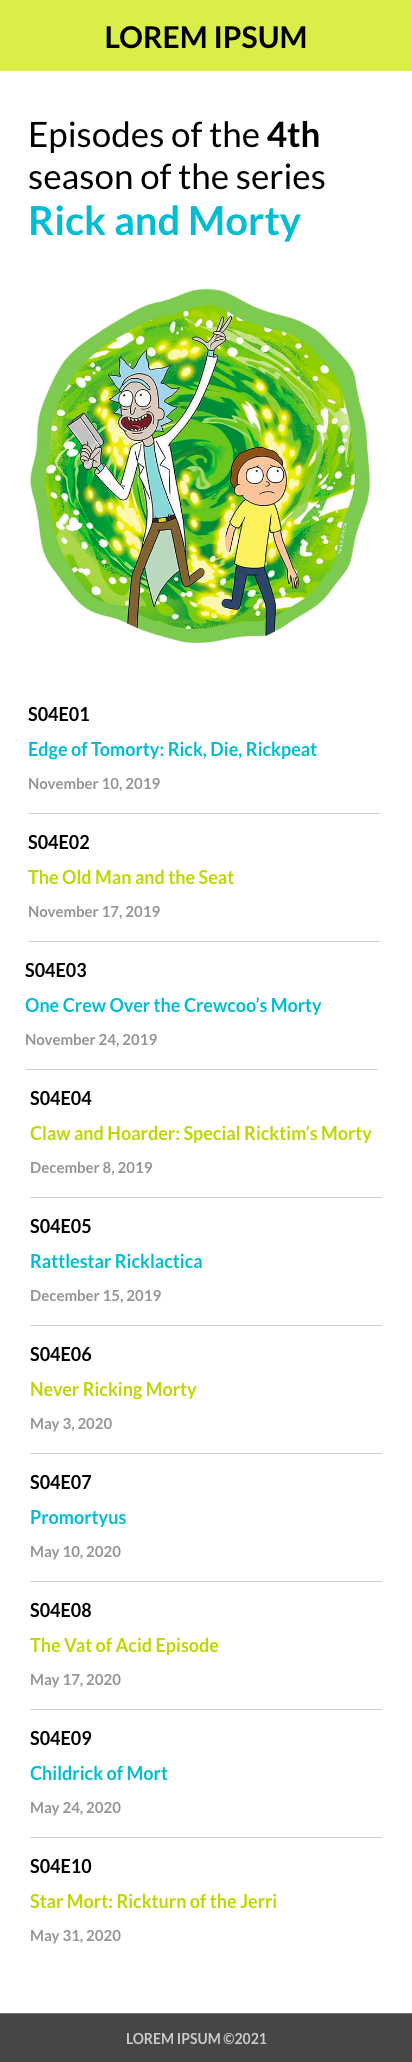
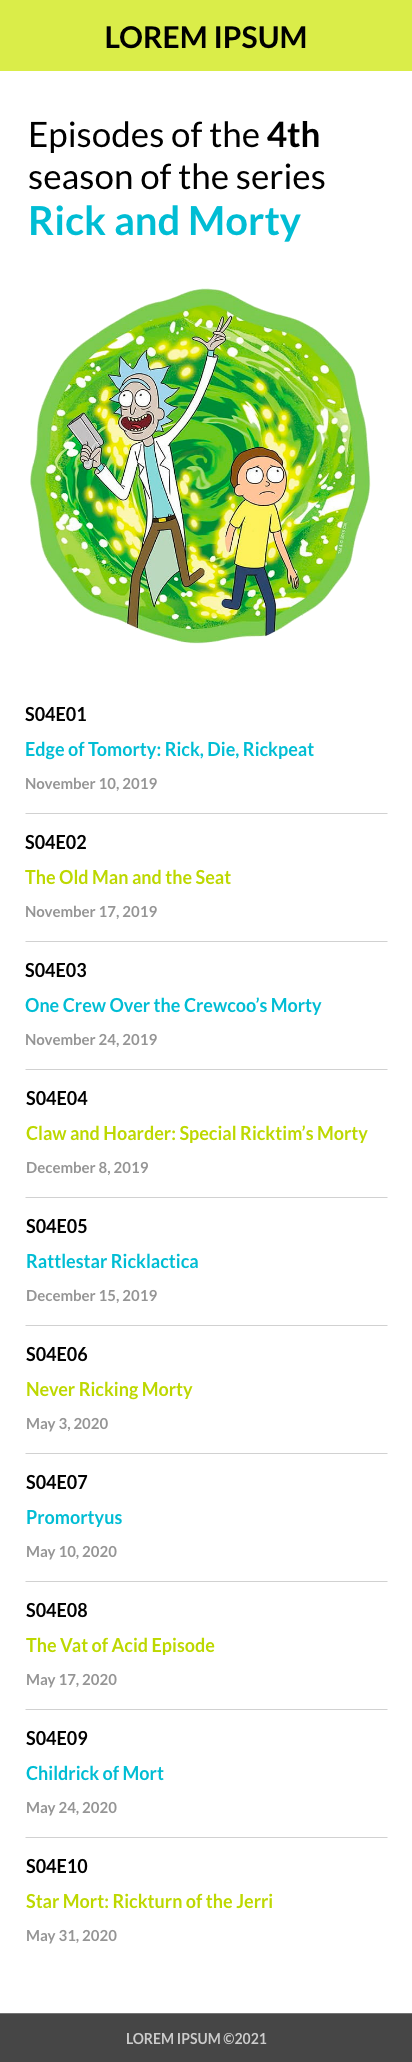
finishing touches

diff --git a/src/css/App.css b/src/css/App.css
@@ -24,7 +24,7 @@ header {
   height: 90px;
   width: 130%;
   padding-bottom: 5px;
-  padding-left: 65px;
+  padding-left: 65.6px;
 
   font-size: 35px;
   font-weight: bold;
@@ -33,7 +33,7 @@ header {
 
 .title-text {
   display: inline-block;
-  width: 43.7vw;
+  width: 43.35vw;
 }
 
 @media not all and (max-width: 1500px) {
@@ -145,12 +145,12 @@ footer {
   }
 
   .episodes-wrapper {
-    margin: -2px 28px 58px;
+    margin: -2px 25px 20px;
   }
 
   footer {
     font-size: 14px;
-    height: 52px;
+    height: 53px;
     line-height: 49px;
   }
   footer::after {

diff --git a/src/css/Episode.css b/src/css/Episode.css
@@ -12,7 +12,7 @@
 }
 
 .episode-details {
-  margin: 16px 29px;
+  margin: 16px 28.7px;
 }
 
 .episode-title {
@@ -27,7 +27,7 @@
 
 @media (max-width: 1500px) {
   .episode {
-    min-height: 126px;
+    min-height: 127px;
     flex-direction: column;
     border-bottom: 1px #d1d1d1 solid;
   }
@@ -48,6 +48,7 @@
 
   .episode-title {
     font-size: 18px;
+    margin-bottom: 14px;
   }
 
   .episode-date {
